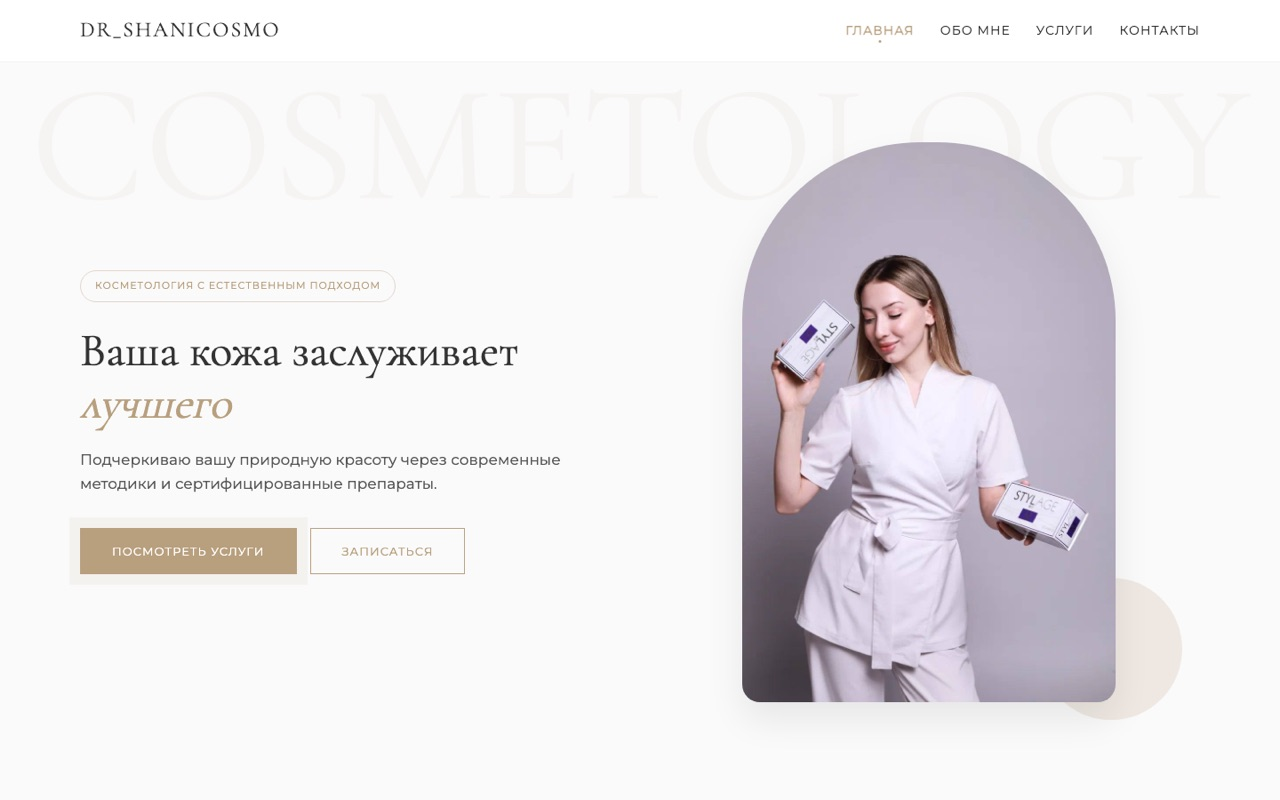
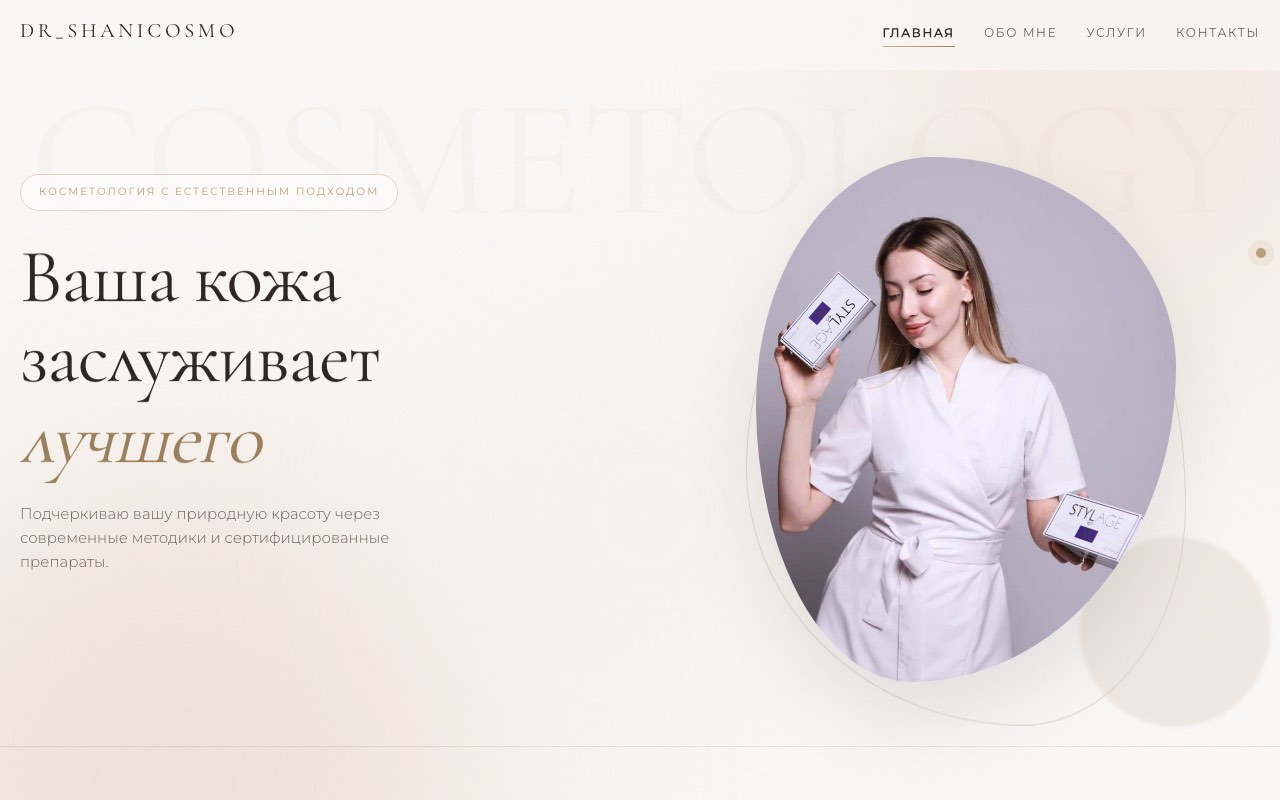
Ремейк скрина 1 работы

diff --git a/index.html b/index.html
@@ -183,7 +183,7 @@
     </div>
 
     <dl class="facts">
-      <div><dt>массив</dt><dd style="">ЭЛЬБРУС</dd></div>
+      <div><dt>массив</dt><dd>ЭЛЬБРУС</dd></div>
       <div><dt>высота</dt><dd>5642 <i>м</i></dd></div>
       <div><dt>координаты</dt><dd>43.3499<i>°</i>&nbsp;N, 42.4453<i>°</i>&nbsp;E</dd></div>
       <div><dt>регион</dt><dd>RU-KB · 07</dd></div>
@@ -192,7 +192,7 @@
 </section>
 
 
-<!-- ═════════════ 03 · НАПРАВЛЕНИЯ ═════════════ -->
+<!-- ═════════════ 03 · git НАПРАВЛЕНИЯ ═════════════ -->
 <section class="sec sec--dark" id="s3" data-theme="dark" data-n="03">
   <p class="sec__tag">направления</p>
 
@@ -335,7 +335,7 @@
   </div>
   <div class="offer__ticker offer__ticker--b" aria-hidden="true">
     <p class="offer__ticker__track">
-      <span>НАЛЬЧИК · КАБАРДИНО-БАЛКАРИЯ · РЕГИОН 07 · </span><span>НАЛЬЧИК · КАБАРДИНО-БАЛКАРИЯ · РЕГИОН 07 · </span><span>НАЛЬЧИК · КАБАРДИНО-БАЛКАРИЯ · РЕГИОН 07 · </span>
+      <span> SEVEN · НАЛЬЧИК · КАБАРДИНО-БАЛКАРИЯ · SEVEN · </span><span>НАЛЬЧИК · КАБАРДИНО-БАЛКАРИЯ · SEVEN · </span><span>НАЛЬЧИК · КАБАРДИНО-БАЛКАРИЯ · SEVEN · </span>
     </p>
   </div>
 
@@ -411,7 +411,7 @@
     <span class="lab__num" aria-hidden="true">07</span>
 
     <footer class="lab__bottom">
-      <span>© 2026 SEVEN</span>
+      <span>© 2026</span>
     </footer>
   </div>
 </section>

diff --git a/css/responsive.css b/css/responsive.css
@@ -143,7 +143,14 @@
     padding: 10px 0;
   }
   .offer__ticker--a, .offer__ticker--b { bottom: auto; }
-  .offer__ticker--a { margin-top: clamp(28px, 5vh, 48px); }
+  /* margin-top:auto, а не фиксированный отступ — секция держит min-height
+     100svh из базового .sec, и когда контент (цена+текст+факты) короче
+     экрана, лента должна прижиматься к низу секции, забирая себе весь
+     свободный остаток, а не повисать сразу под текстом с пустым полем
+     под собой до конца секции. Когда контента, наоборот, больше экрана,
+     auto схлопывается в 0 и лента просто идёт следом без наложения —
+     ровно то же поведение, что решало проблему в комментарии выше */
+  .offer__ticker--a { margin-top: auto; }
 
   /* ── 02 регион ── */
   .region { grid-template-rows: minmax(0, 1fr) auto; gap: 14px; }

diff --git a/css/sections.css b/css/sections.css
@@ -789,6 +789,7 @@
   letter-spacing: .34em;
   text-transform: uppercase;
   color: var(--dim);
+  text-align: right;
 }
 
 .lab__top { display: flex; flex-direction: column; gap: 10px; }
